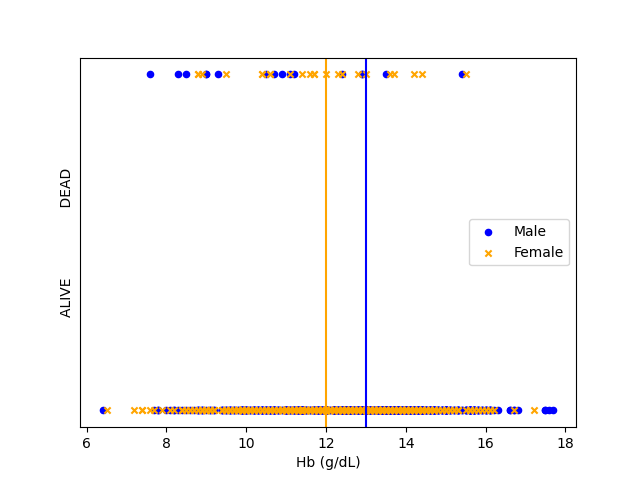
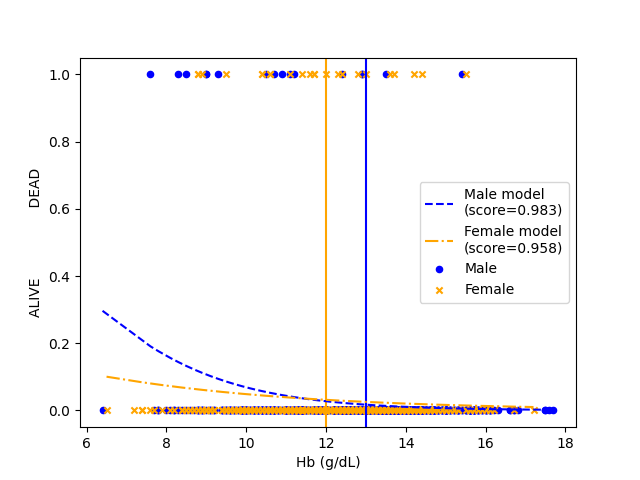
new: logistic reg

diff --git a/analysis.py b/analysis.py
@@ -2,6 +2,8 @@ import pandas as pd
 import matplotlib.pyplot as plt
 import scipy.stats as stats
 import numpy as np
+from sklearn.model_selection import train_test_split
+from sklearn.linear_model import LogisticRegression
 
 columns = ["SEXE", "HEMOGLOBINE_PREOP", "DATE.INDUC", "DATE.DEATH", "INHOSPITAL.death", "ALIVE.J30"]
 
@@ -74,6 +76,16 @@ def get_fischer_df(data):
     return fischer
 
 
+def fit(data):
+    x_train, x_test, y_train, y_test = train_test_split(data[["HEMOGLOBINE_PREOP"]], data["DEAD"], train_size=0.9)
+
+    model = LogisticRegression()
+    model.fit(x_train, y_train)
+    score = round(model.score(x_test, y_test), 3)
+    predict = model.predict_proba(data[["HEMOGLOBINE_PREOP"]].sort_values(by="HEMOGLOBINE_PREOP"))[:, 1]
+    return score, predict
+
+
 patients = set_anemia(set_alive(get_data()))
 
 df = get_fischer_df(patients)
@@ -83,8 +95,11 @@ onetail_p, twotail_p = stats.fisher_exact(df)
 
 print(f"Fischer Exact Test : One tail P-value: {onetail_p}. Two-tail P-value {twotail_p}")
 
-patients_male = patients[patients["SEXE"] == "Male"]
-patients_female = patients[patients["SEXE"] == "Female"]
+patients_male = patients[patients["SEXE"] == "Male"][["HEMOGLOBINE_PREOP", "DEAD"]]
+patients_female = patients[patients["SEXE"] == "Female"][["HEMOGLOBINE_PREOP", "DEAD"]]
+
+score_male, predict_male = fit(patients_male)
+score_female, predict_female = fit(patients_female)
 
 ax = patients_male.plot.scatter(x="HEMOGLOBINE_PREOP", y="DEAD", label="Male", c="blue")
 patients_female.plot.scatter(
@@ -99,7 +114,20 @@ patients_female.plot.scatter(
 )
 plt.axvline(13, c="blue")
 plt.axvline(12, c="orange")
-ax.get_yaxis().set_ticks([])
+plt.plot(
+    patients_male["HEMOGLOBINE_PREOP"].sort_values(),
+    predict_male,
+    ls="--",
+    c="blue",
+    label=f"Male model\n(score={score_male})",
+)
+plt.plot(
+    patients_female["HEMOGLOBINE_PREOP"].sort_values(),
+    predict_female,
+    ls="-.",
+    c="orange",
+    label=f"Female model\n(score={score_female})",
+)
 plt.legend(loc="right")
 plt.savefig("death_vs_hb.pdf")
 plt.savefig("death_vs_hb.png")
